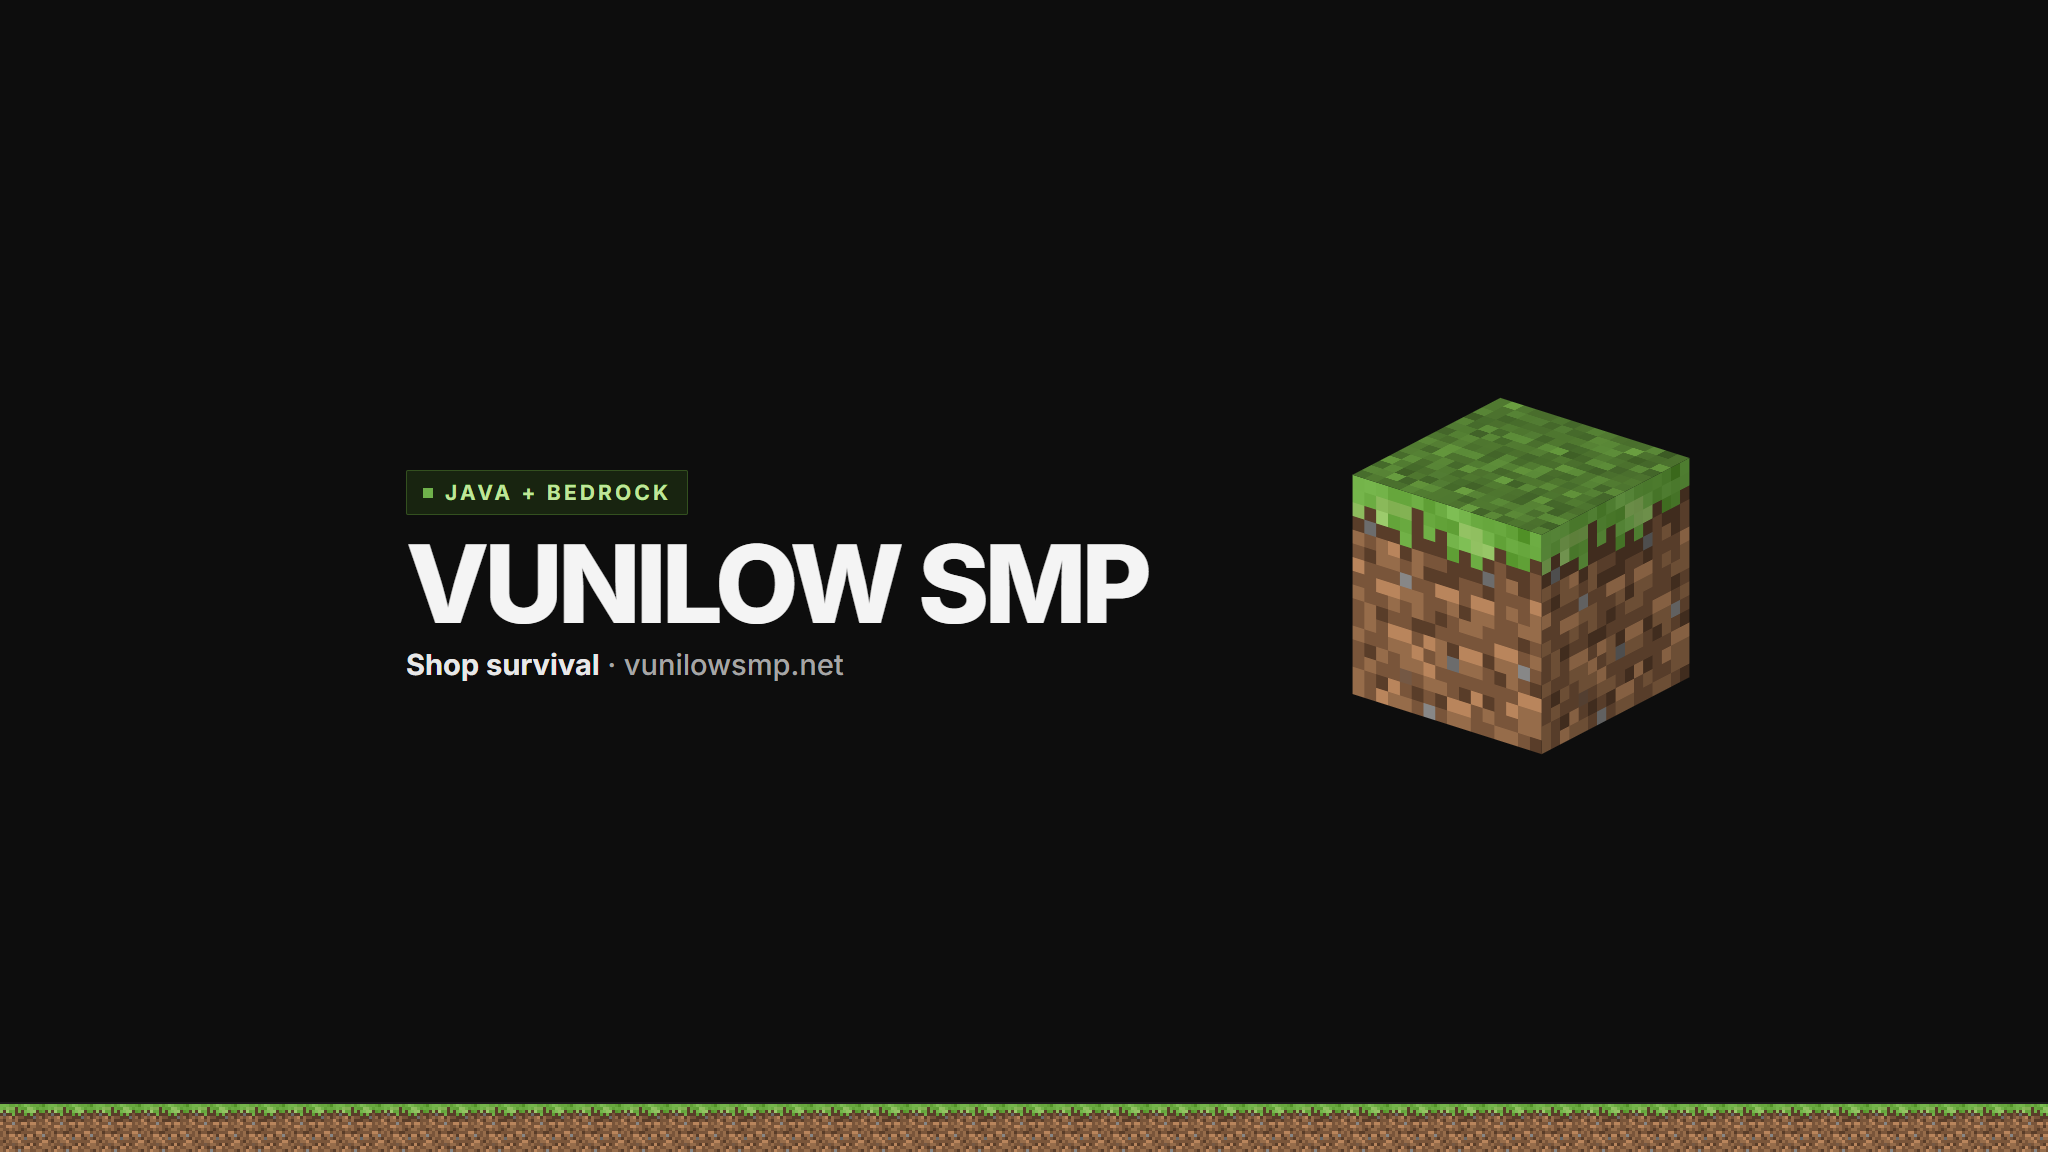
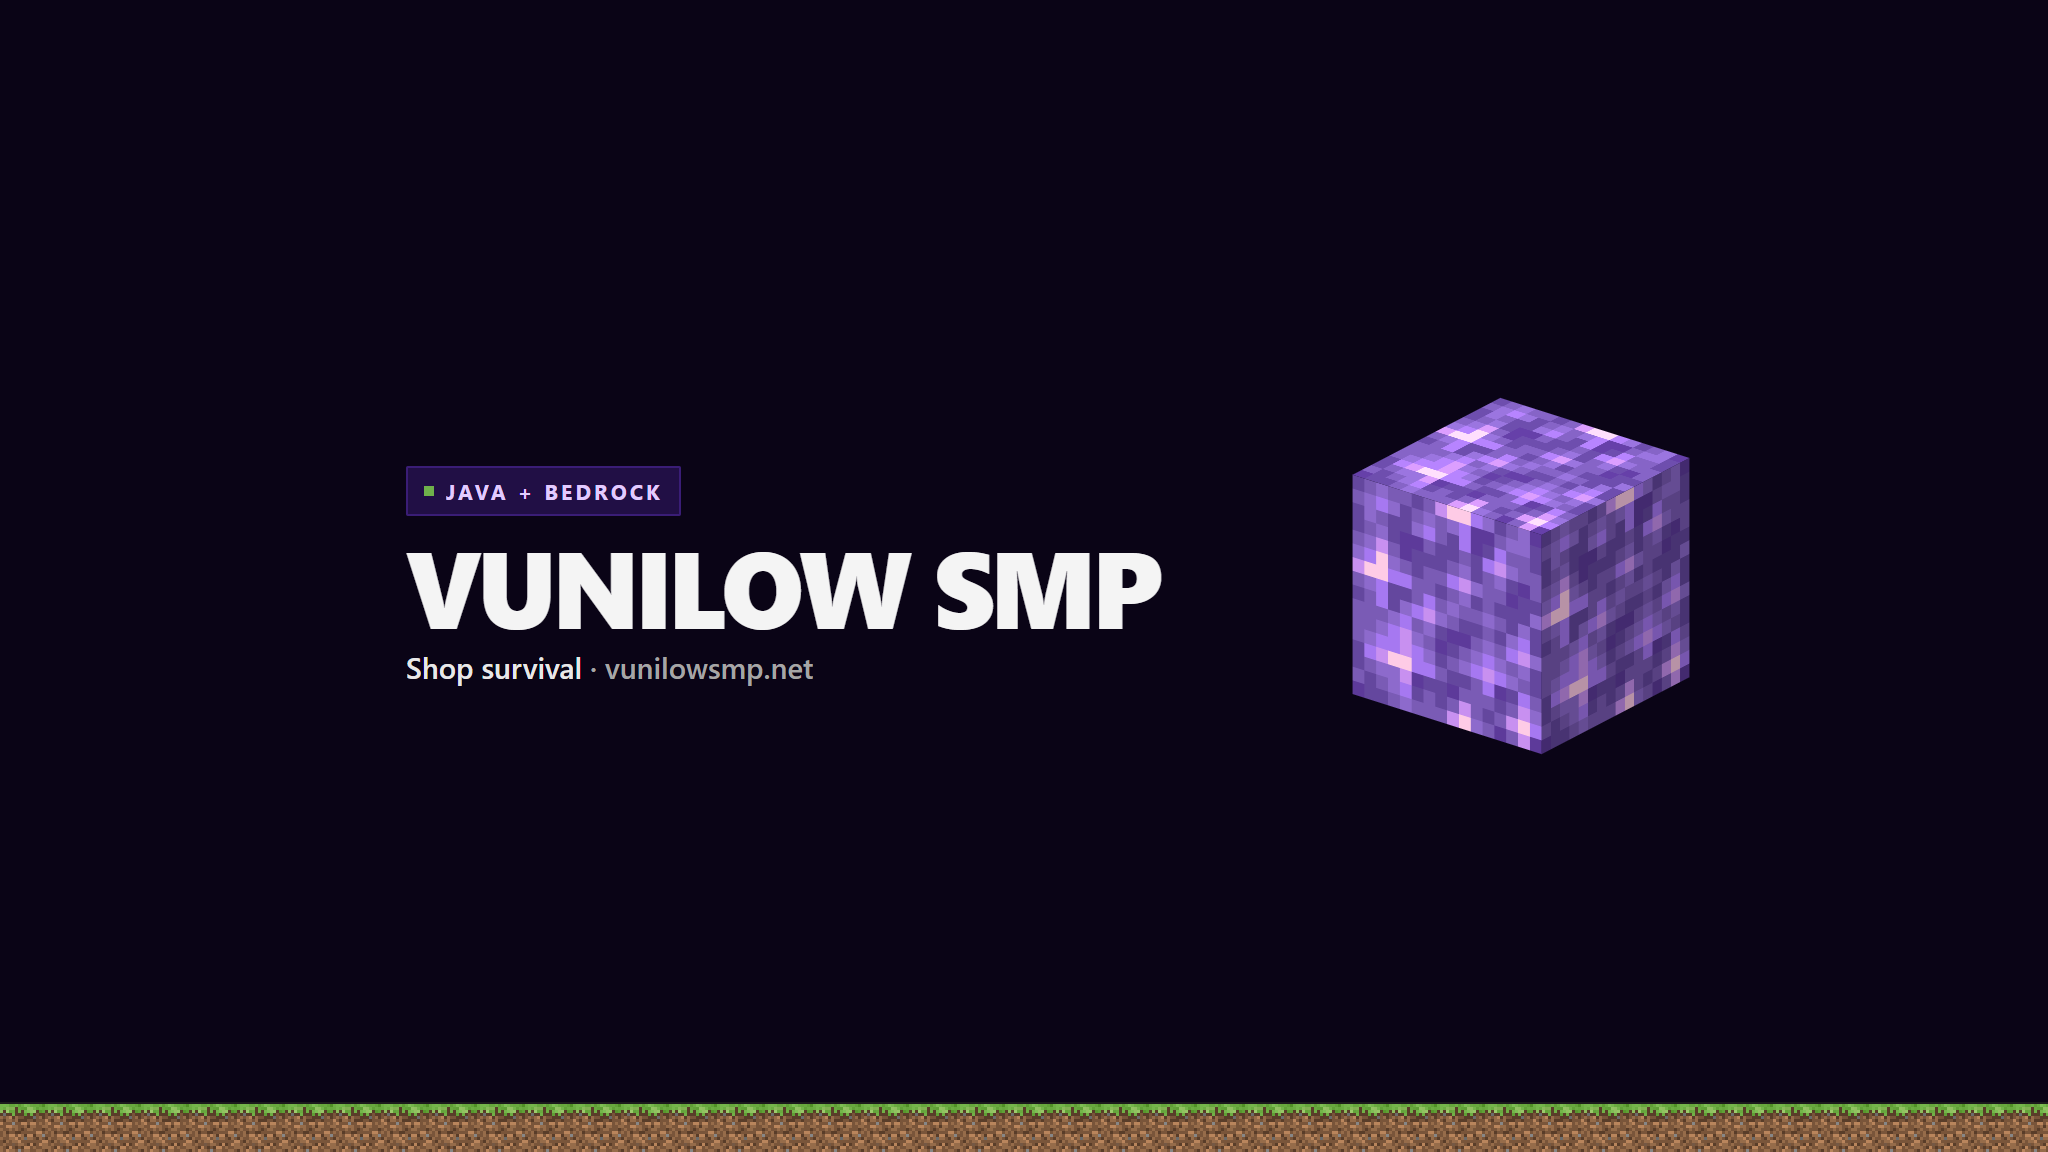
Return the site to the Vunilow SMP violet theme
Restore the original purple/magenta pixel identity (Pixelify Sans, thick
borders, hard offset shadows) and swap the block art to amethyst so the
site matches the SMP brand again.

🤖 Generated with Codebuff

Changed region(s): [[0.6562, 0.3438, 0.8438, 0.6562], [0.1875, 0.4062, 0.5625, 0.5938]]

diff --git a/index.html b/index.html
@@ -22,7 +22,7 @@
 <link rel="apple-touch-icon" href="avatar.png">
 <link rel="preconnect" href="https://fonts.googleapis.com">
 <link rel="preconnect" href="https://fonts.gstatic.com" crossorigin>
-<link href="https://fonts.googleapis.com/css2?family=Instrument+Sans:wght@400;500;600;700&display=swap" rel="stylesheet">
+<link href="https://fonts.googleapis.com/css2?family=Pixelify+Sans:wght@500;700&family=DM+Sans:wght@400;500;700&display=swap" rel="stylesheet">
 <style>
 :root{
   --bg:#0d0d0d;
@@ -313,6 +313,62 @@ footer{border-top:1px solid var(--line);padding:40px 0 28px;margin-top:20px;back
   .js .rv{opacity:1;transform:none}
   html{scroll-behavior:auto}
 }
+</style>
+<style id="smp-theme">
+/* Vunilow SMP identity: violet/magenta pixel theme */
+:root{--bg:#0a0416;--panel:#160932;--panel-2:#1b0b3d;--panel-hi:#210f45;--line:#3a1d76;--line-2:#542a9e;
+  --text:#f5edff;--muted:#b7a3d6;--dim:#8f7ab8;--accent:#b45cff;--accent-deep:#9400ff;--gold:#e100ff;--green:#3dff8a;--r:2px;--r-sm:2px}
+body{background:var(--bg);font-family:'DM Sans',system-ui,sans-serif;background-image:radial-gradient(46rem 26rem at 74% 18%,#5a12b8aa,transparent 70%),radial-gradient(26rem 18rem at 4% 2%,#e100ff22,transparent 70%);background-repeat:no-repeat}
+h1,h2,h3,.brand,.btn,.eyebrow,.pill,.badge,.ip-kind,.chip-stat,.tabs button,.inline-copy,kbd{font-family:'Pixelify Sans',ui-monospace,monospace;letter-spacing:0}
+h1{font-size:clamp(2.6rem,5.6vw,4.3rem);line-height:1.02}
+h1 em{color:#e6ccff}
+h2{font-size:clamp(1.9rem,3.4vw,2.5rem)}
+.site-header{background:#0a0416e6;backdrop-filter:blur(10px);border-bottom:2px solid #ffffff12}
+.navbar{height:66px}
+.nav-links a{border-radius:0}
+.nav-links a:hover{background:#ffffff10;color:#fff}
+.nav-links a.active{background:#9400ff40;box-shadow:inset 0 -2px 0 #e100ff;color:#fff}
+.brand img{border:2px solid var(--line);border-radius:0}
+.pill{border:2px solid var(--line-2);background:#210f45;color:#e2cbff}
+.icon-btn{border:2px solid var(--line);background:#160932;border-radius:0}
+.btn{border-radius:0;border-width:2px;font-weight:700;box-shadow:5px 5px 0 #00000066;transition:transform .12s,box-shadow .12s,background .15s}
+.btn-primary{background:#9400ff;border-color:#9400ff;color:#fff;box-shadow:5px 5px 0 #e100ff;border-bottom-width:2px}
+.btn-primary:hover{background:#a63bff;transform:translate(-2px,-2px);box-shadow:7px 7px 0 #e100ff}
+.btn-ghost{background:#160932;border-color:var(--line)}
+.btn-ghost:hover{background:#210f45;border-color:#9400ff;transform:translate(-2px,-2px);box-shadow:7px 7px 0 #9400ff}
+.btn.ok{background:#3dff8a;border-color:#16b85a;color:#04240f;box-shadow:5px 5px 0 #0b6b33}
+.art-card{background:#160932;border:2px solid #9400ff;border-radius:0;box-shadow:7px 7px 0 #e100ff}
+.card,.panel,.step-card,.watch-card{border:2px solid var(--line);border-radius:0;background:#160932}
+.card:hover,.step-card:hover,.watch-card:hover{border-color:#9400ff;background:#1b0b3d;box-shadow:6px 6px 0 #9400ff;transform:translate(-3px,-3px)}
+.icon-tile{border:2px solid var(--line);border-radius:0;background:#0a0416}
+.ip-row{background:#0a0416;border:2px solid var(--line);border-radius:0}
+.ip-row:hover{border-color:#e100ff}
+.ip-row code{color:#f5edff}
+.copy-btn{background:#9400ff;border:2px solid #9400ff;color:#fff;border-radius:0}
+.copy-btn:hover{background:#e100ff;border-color:#e100ff;color:#2a0033}
+.copy-btn.ok{background:#3dff8a;border-color:#16b85a;color:#04240f}
+.chip-stat{background:#0a0416;border:2px solid var(--line);border-radius:0;color:#cbb6ea}
+.art-ver{background:#0a0416;border:2px solid var(--line);border-radius:0}
+.art-head{border-bottom:2px solid var(--line)}
+.eyebrow{color:#c79bff}
+.tabs{background:#0a0416;border:2px solid var(--line);border-radius:0}
+.tabs button{border-radius:0}
+.tabs button[aria-selected="true"]{background:#9400ff;color:#fff}
+.badge,.badge.green{background:#210f45;border:2px solid var(--line-2);color:#e2cbff;border-radius:0}
+.steps li::before{background:#210f45;border:2px solid var(--line-2);color:#e2cbff;border-radius:0}
+kbd,.inline-copy{border-radius:0;background:#210f45;border:2px solid var(--line)}
+.inline-copy:hover{background:#9400ff;border-color:#9400ff;color:#fff}
+.rules-body code,.faq code{background:#2a1050;color:#e8d6ff}
+.rules-body li{border-bottom:1px solid #ffffff0f}
+.faq details[open]{background:#1b0b3d}
+.watch-icon{border:2px solid var(--line);border-radius:0;background:#0a0416}
+.cta{background:#1b0b3d;border:2px solid var(--line-2);border-radius:0;box-shadow:8px 8px 0 #9400ff}
+footer{background:#08030f;border-top:2px solid var(--line)}
+.to-top{background:#210f45;border:2px solid var(--line);border-radius:0}
+.progress{background:#e100ff}
+.section{border-top:2px solid #ffffff0d}
+.cube .f,.cube .r{background-image:url(mc/amethyst_block.png)}
+.cube .t{background-image:url(mc/amethyst_block.png);background-color:transparent;background-blend-mode:normal}
 </style>
 </head>
 <body>
